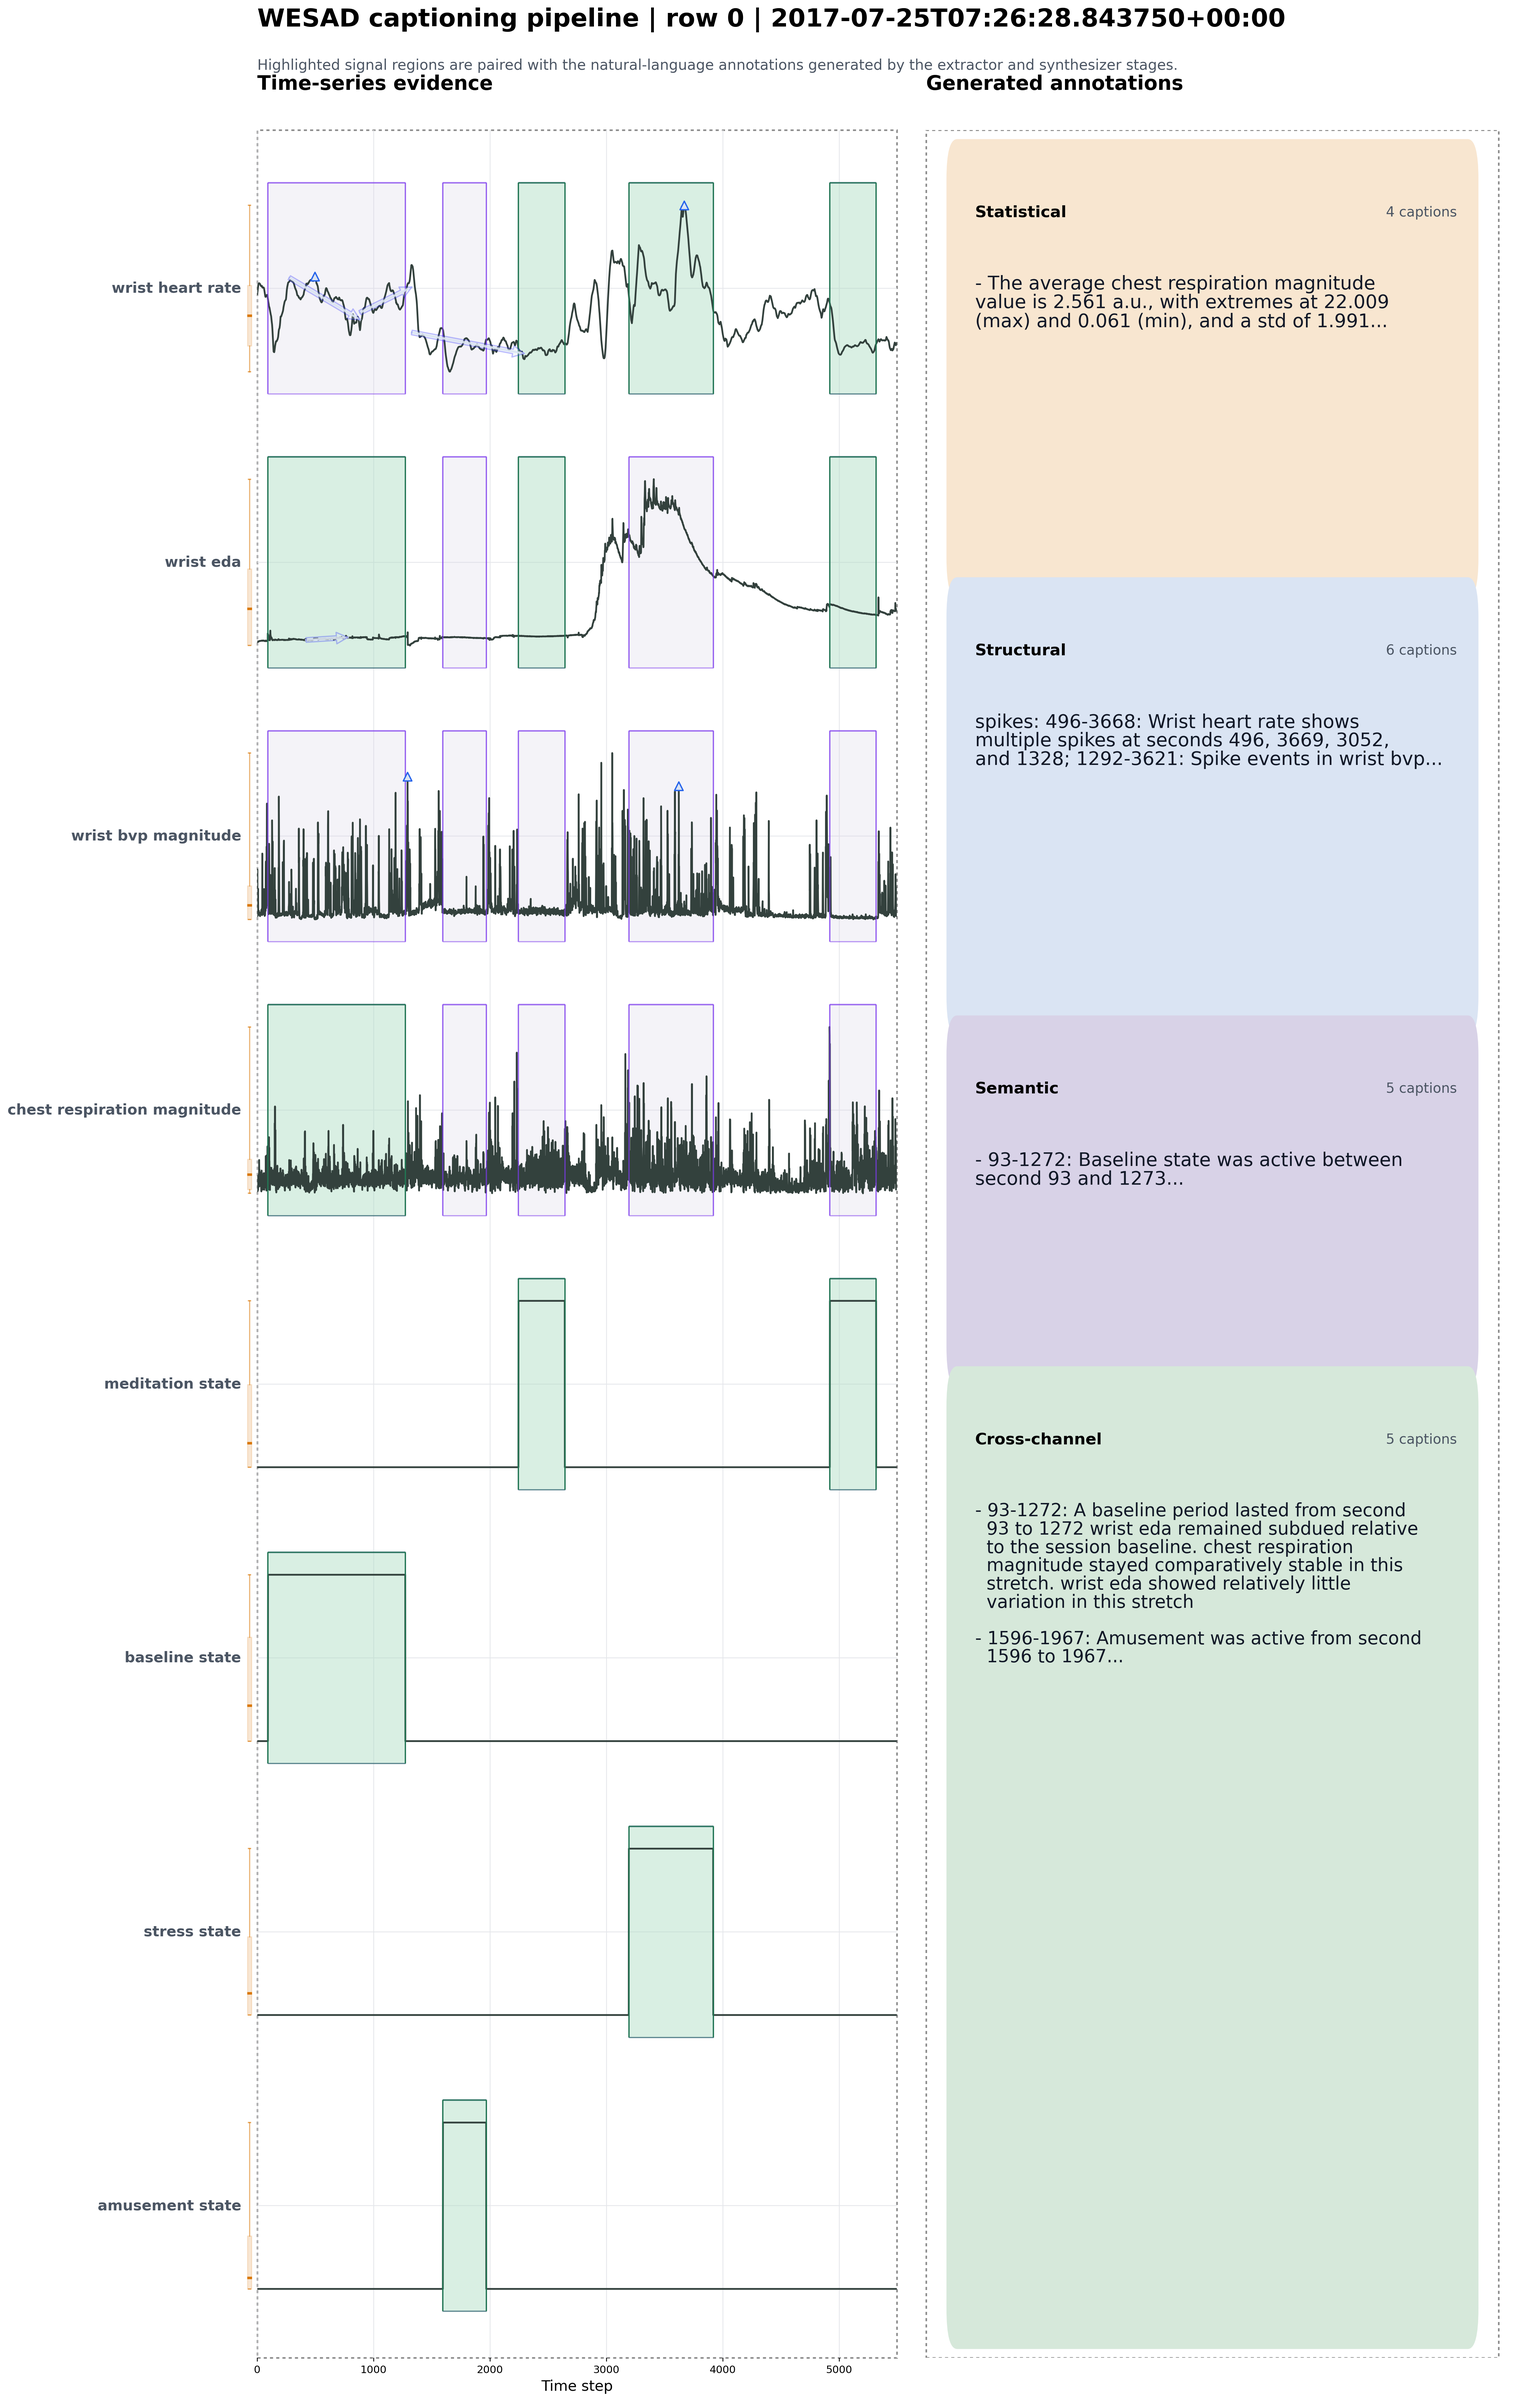
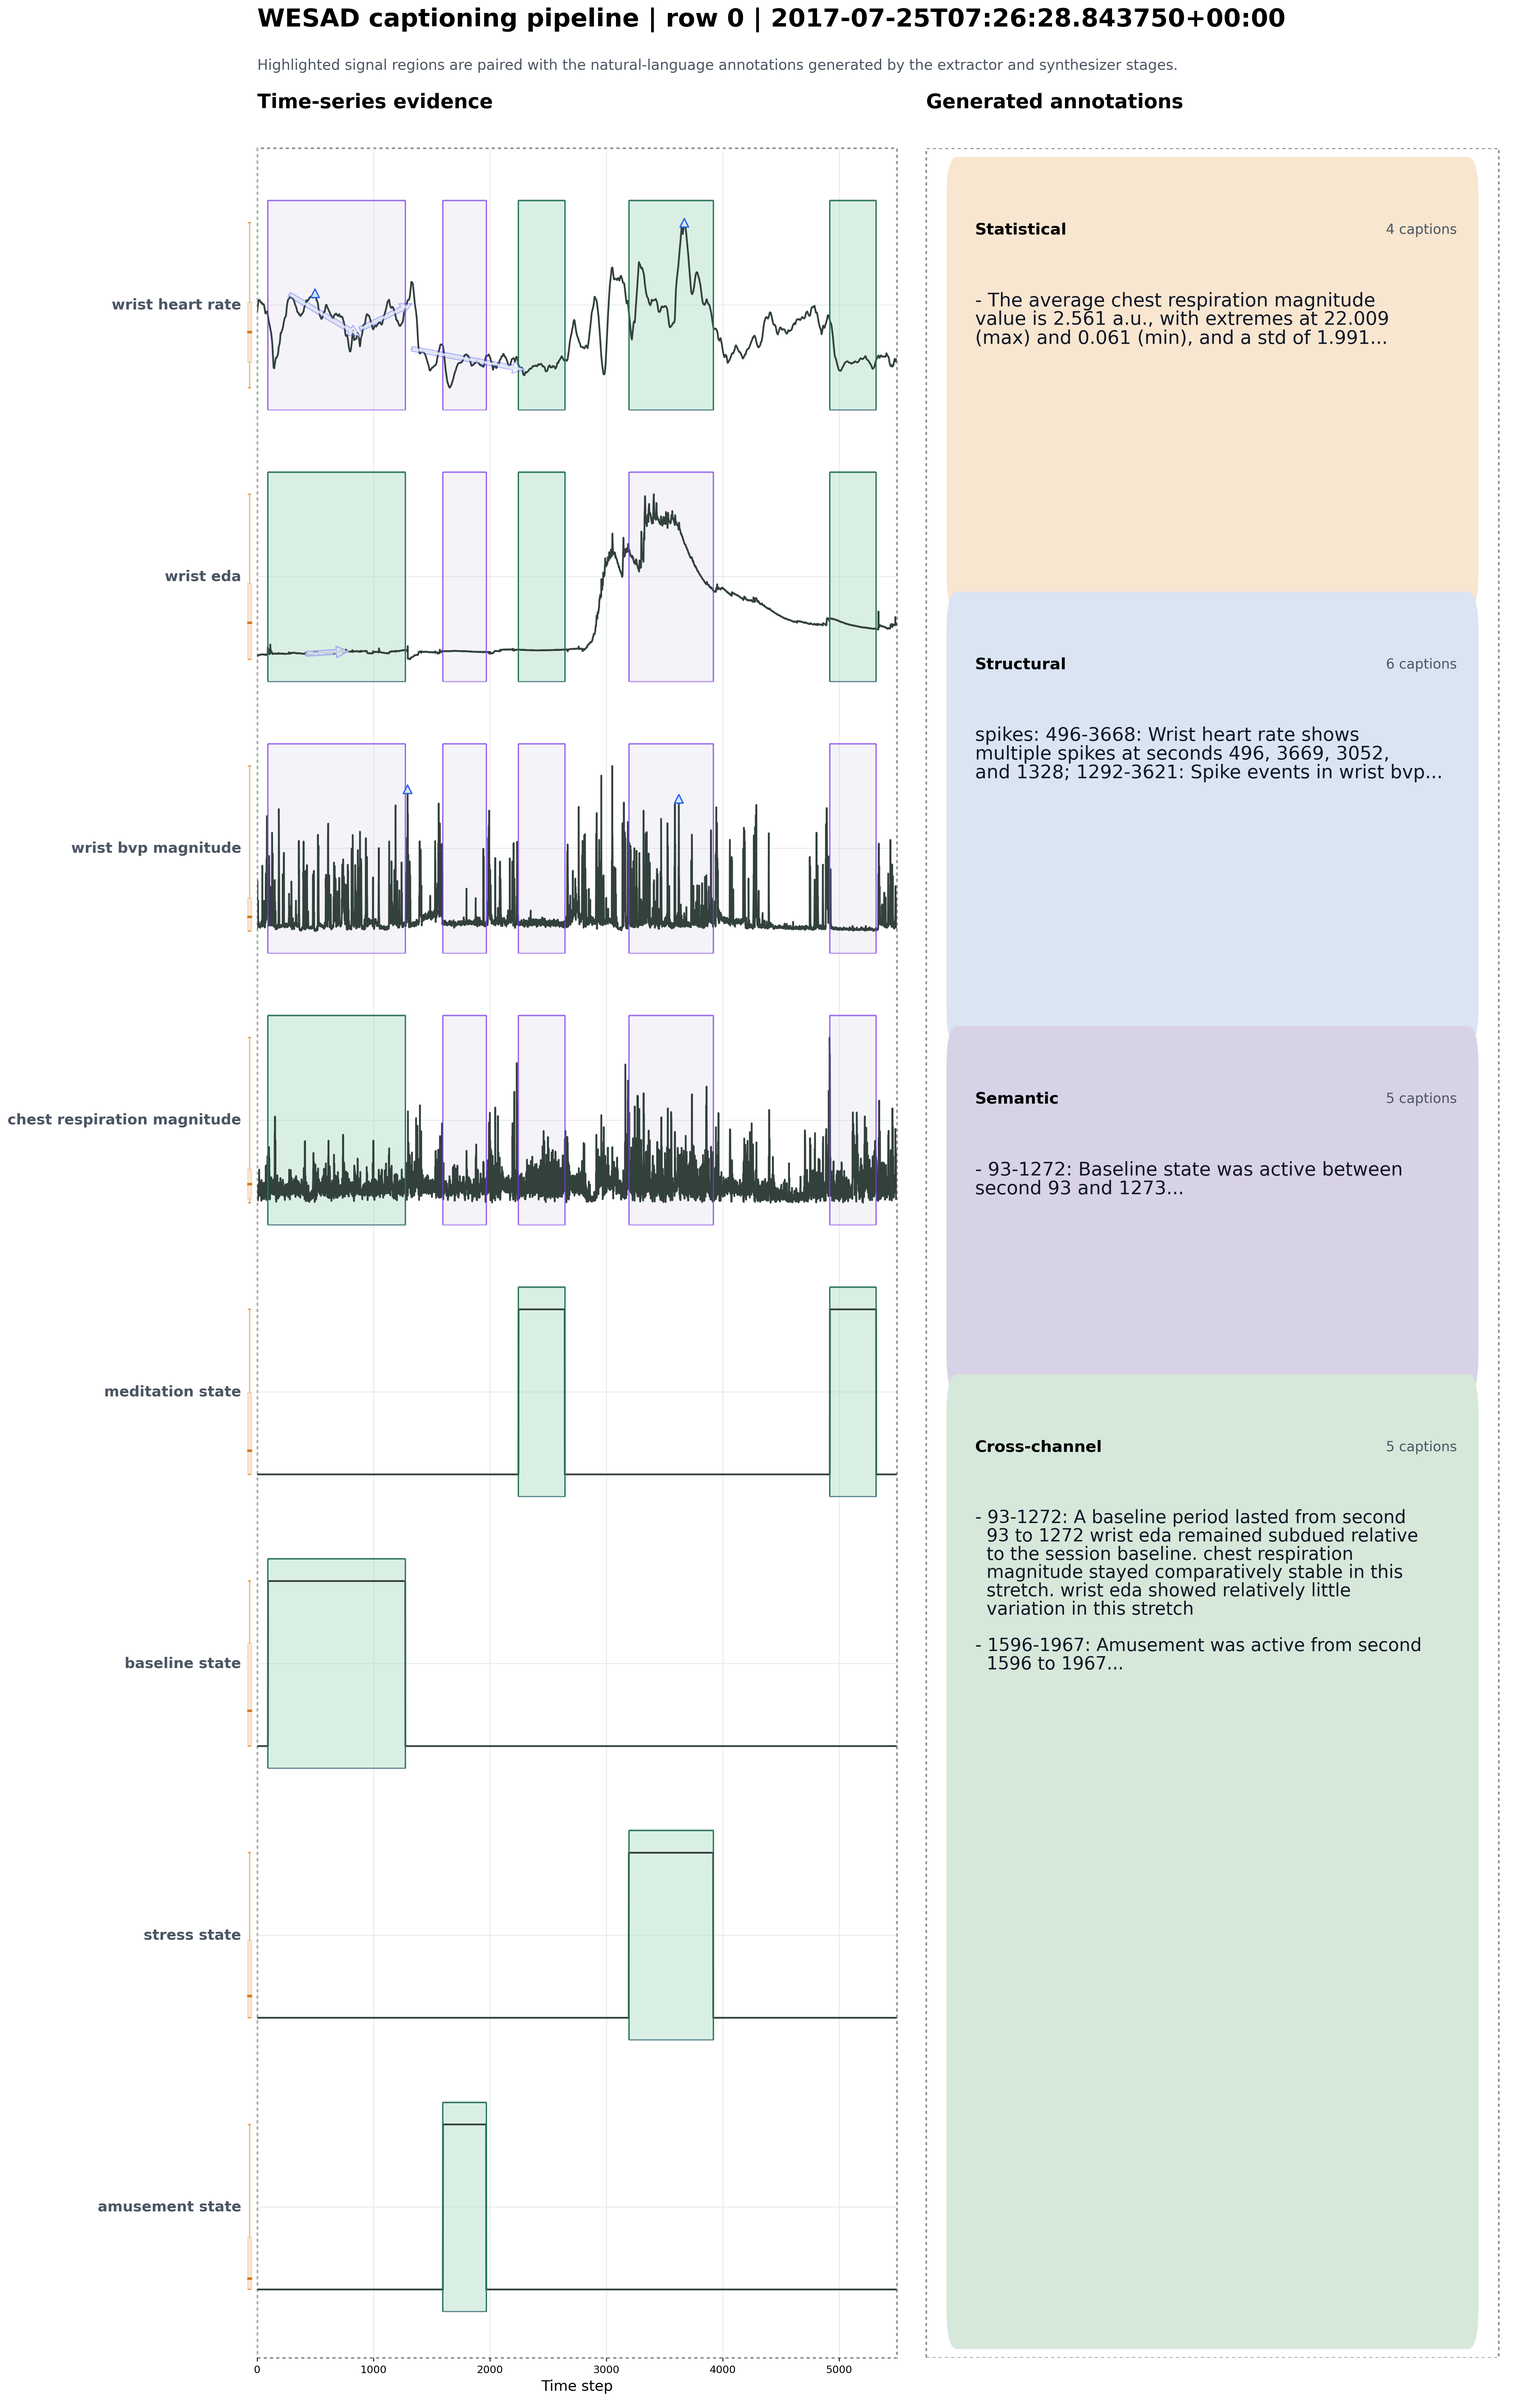
new

diff --git a/visualizer.py b/visualizer.py
@@ -114,7 +114,7 @@ def plot_caption_pipeline_row(
         width_ratios=[1.18, 1.10],
         left=0.045,
         right=0.975,
-        top=0.932,
+        top=0.925,
         bottom=0.062,
         wspace=0.028,
     )
